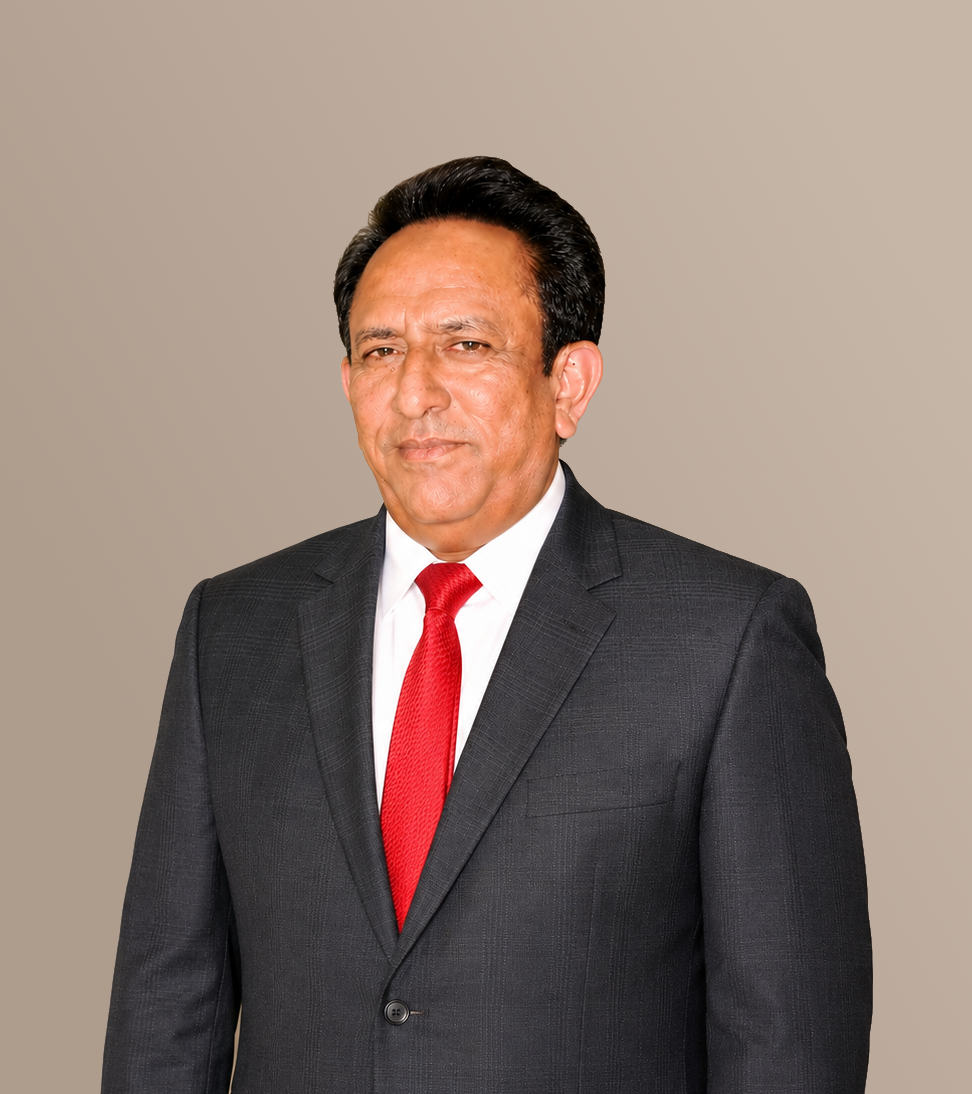
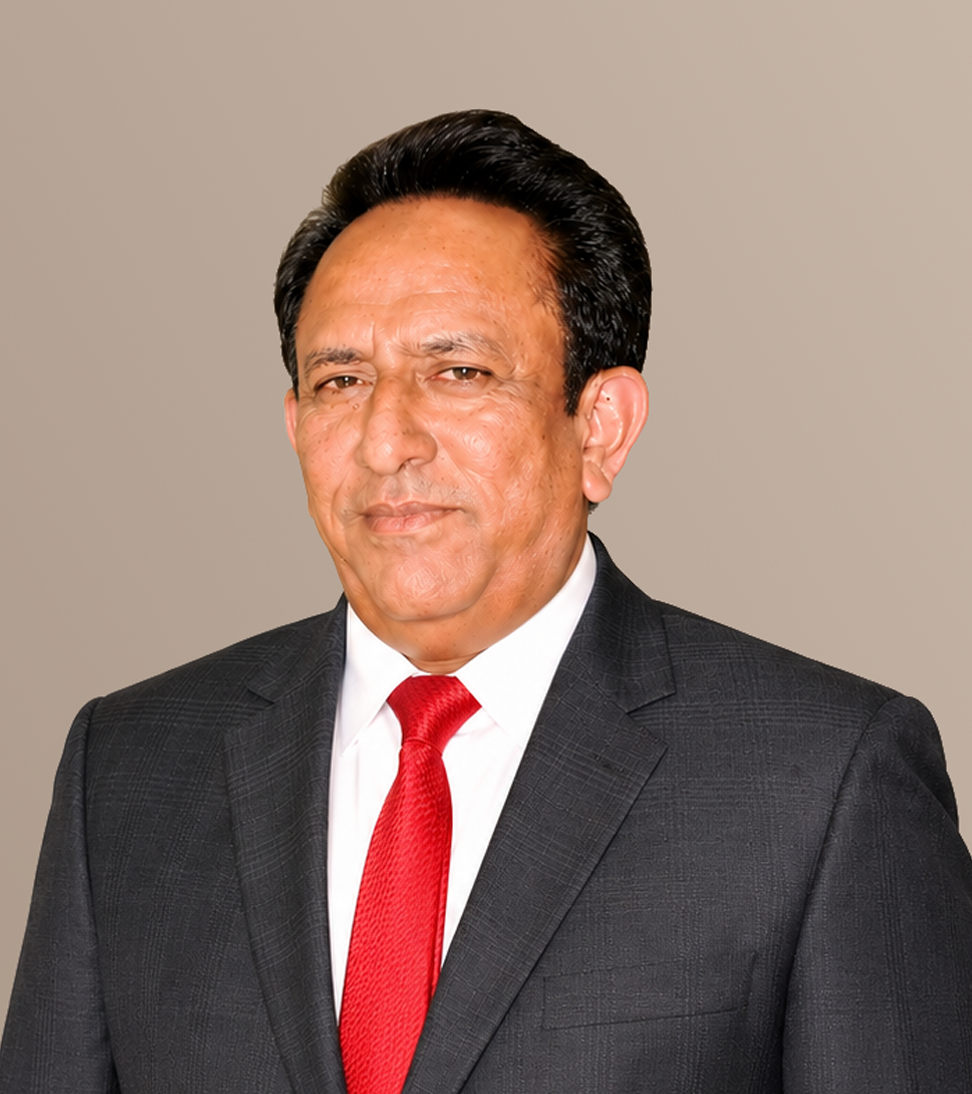
Adjustments made on about us page
Leadership section - added content
Chairman's photo - Cropped to zoom in
Global Presence - Added Europe in the Map
Team members - hid the section for now

diff --git a/about.html b/about.html
@@ -88,7 +88,8 @@
           <img src="Media/About Us/Chairman Photo 2.png" alt="Dato Dr. Arshad Mahmood">
         </div>
         <div class="chairman-bio">
-          <p>Dato Dr. Arshad Mahmood is the Founder and Chairman of the International Investment Consortium Inc. (IIC), where he provides the strategic vision that drives the organization&rsquo;s evolution into a global commodity, trade, and finance platform. Under his leadership, IIC has been repositioned to open markets, bridge supply and demand, and deliver financial solutions that enable legitimate trading across borders. His commitment to building trusted marketplaces and connecting producers with buyers has defined IIC&rsquo;s new direction.</p>
+          <p>Dato Dr. Arshad Mahmood is the Founder and Chairman of the International Investment Consortium Inc. (IIC). Established in Hong Kong in 1997, IIC has an ever expanding presence in Asia, Middle East, Africa and Europe. Its subsidiaries and business platforms form the foundation for growth in many existing and emerging market sectors.</p>
+          <p>Dato Dr. Arshad provides the strategic vision that drives the organization&rsquo;s evolution into a global commodity, trade, and finance platform. Under his leadership, IIC has been repositioned to open markets, bridge supply and demand, and deliver financial solutions that enable legitimate trading across borders. His commitment to building trusted marketplaces and connecting producers with buyers has defined IIC&rsquo;s new direction.</p>
           <p>Dato Dr. Arshad holds a Bachelor&rsquo;s Degree in Economics, a Master&rsquo;s Degree in Literature, and an Honorary Doctorate in Management Sciences from ACMIT USA. His multidisciplinary academic foundation, combined with decades of experience in international trade and finance, reflects his dedication to building transparent, accessible, and efficient commodity markets.</p>
           <p>Guided by a philosophy of creating markets where none exist, Dato Dr. Arshad advocates for connecting those who have commodities and services with those who need them. His vision emphasizes trade finance, verified supply chains, and market infrastructure that empowers producers, buyers, and suppliers to trade with confidence, contributing to economic growth across emerging and established markets alike.</p>
         </div>
@@ -201,6 +202,8 @@
   </section>
 
   <!-- LEADERSHIP TEAM -->
+  <!-- HIDDEN: Leadership Team section (temporarily removed — uncomment to restore) -->
+  <!--
   <section class="section section--primary">
     <div class="container">
       <div class="section-header section-header--center reveal">
@@ -211,67 +214,67 @@
       <div class="grid grid-3">
 
         <div class="card reveal" style="text-align: center; padding: 0; overflow: hidden;">
-          <div style="width: 100%; aspect-ratio: 1; background: var(--bg-card-hover, rgba(0,0,0,0.04)); display: flex; align-items: center; justify-content: center; overflow: hidden;">
-            <img src="Media/Team/member-1.jpg" alt="Dato Dr. Arshad Mahmood" style="width: 100%; height: 100%; object-fit: cover; display: block;" onerror="this.style.display='none';this.parentNode.innerHTML='<span style=\'color:var(--text-muted);font-size:13px;font-family:var(--font-data)\'>Team Photo<br><small>400 x 400 px</small></span>'">
+          <div style="width: 100%; aspect-ratio: 1; background: var(&#45;&#45;bg-card-hover, rgba(0,0,0,0.04)); display: flex; align-items: center; justify-content: center; overflow: hidden;">
+            <img src="Media/Team/member-1.jpg" alt="Dato Dr. Arshad Mahmood" style="width: 100%; height: 100%; object-fit: cover; display: block;" onerror="this.style.display='none';this.parentNode.innerHTML='<span style=\'color:var(&#45;&#45;text-muted);font-size:13px;font-family:var(&#45;&#45;font-data)\'>Team Photo<br><small>400 x 400 px</small></span>'">
           </div>
           <div style="padding: 24px 20px;">
             <h4 class="card__title" style="margin-bottom: 4px;">Dato Dr. Arshad Mahmood</h4>
-            <p style="font-family: var(--font-data); font-size: 13px; font-weight: 600; letter-spacing: 0.06em; text-transform: uppercase; color: var(--gold-text); margin-bottom: 12px;">Chairman &amp; CEO</p>
+            <p style="font-family: var(&#45;&#45;font-data); font-size: 13px; font-weight: 600; letter-spacing: 0.06em; text-transform: uppercase; color: var(&#45;&#45;gold-text); margin-bottom: 12px;">Chairman &amp; CEO</p>
             <p class="card__text">Founding leader responsible for the strategic vision and overall direction of IIC Worldwide, with decades of experience in international trade and finance.</p>
           </div>
         </div>
 
         <div class="card reveal" style="text-align: center; padding: 0; overflow: hidden;">
-          <div style="width: 100%; aspect-ratio: 1; background: var(--bg-card-hover, rgba(0,0,0,0.04)); display: flex; align-items: center; justify-content: center; overflow: hidden;">
-            <img src="Media/Team/member-2.jpg" alt="Team Member" style="width: 100%; height: 100%; object-fit: cover; display: block;" onerror="this.style.display='none';this.parentNode.innerHTML='<span style=\'color:var(--text-muted);font-size:13px;font-family:var(--font-data)\'>Team Photo<br><small>400 x 400 px</small></span>'">
+          <div style="width: 100%; aspect-ratio: 1; background: var(&#45;&#45;bg-card-hover, rgba(0,0,0,0.04)); display: flex; align-items: center; justify-content: center; overflow: hidden;">
+            <img src="Media/Team/member-2.jpg" alt="Team Member" style="width: 100%; height: 100%; object-fit: cover; display: block;" onerror="this.style.display='none';this.parentNode.innerHTML='<span style=\'color:var(&#45;&#45;text-muted);font-size:13px;font-family:var(&#45;&#45;font-data)\'>Team Photo<br><small>400 x 400 px</small></span>'">
           </div>
           <div style="padding: 24px 20px;">
             <h4 class="card__title" style="margin-bottom: 4px;">Team Member</h4>
-            <p style="font-family: var(--font-data); font-size: 13px; font-weight: 600; letter-spacing: 0.06em; text-transform: uppercase; color: var(--gold-text); margin-bottom: 12px;">Chief Operating Officer</p>
+            <p style="font-family: var(&#45;&#45;font-data); font-size: 13px; font-weight: 600; letter-spacing: 0.06em; text-transform: uppercase; color: var(&#45;&#45;gold-text); margin-bottom: 12px;">Chief Operating Officer</p>
             <p class="card__text">Oversees day-to-day platform operations, ensuring seamless trade facilitation and marketplace efficiency across all regions.</p>
           </div>
         </div>
 
         <div class="card reveal" style="text-align: center; padding: 0; overflow: hidden;">
-          <div style="width: 100%; aspect-ratio: 1; background: var(--bg-card-hover, rgba(0,0,0,0.04)); display: flex; align-items: center; justify-content: center; overflow: hidden;">
-            <img src="Media/Team/member-3.jpg" alt="Team Member" style="width: 100%; height: 100%; object-fit: cover; display: block;" onerror="this.style.display='none';this.parentNode.innerHTML='<span style=\'color:var(--text-muted);font-size:13px;font-family:var(--font-data)\'>Team Photo<br><small>400 x 400 px</small></span>'">
+          <div style="width: 100%; aspect-ratio: 1; background: var(&#45;&#45;bg-card-hover, rgba(0,0,0,0.04)); display: flex; align-items: center; justify-content: center; overflow: hidden;">
+            <img src="Media/Team/member-3.jpg" alt="Team Member" style="width: 100%; height: 100%; object-fit: cover; display: block;" onerror="this.style.display='none';this.parentNode.innerHTML='<span style=\'color:var(&#45;&#45;text-muted);font-size:13px;font-family:var(&#45;&#45;font-data)\'>Team Photo<br><small>400 x 400 px</small></span>'">
           </div>
           <div style="padding: 24px 20px;">
             <h4 class="card__title" style="margin-bottom: 4px;">Team Member</h4>
-            <p style="font-family: var(--font-data); font-size: 13px; font-weight: 600; letter-spacing: 0.06em; text-transform: uppercase; color: var(--gold-text); margin-bottom: 12px;">Chief Financial Officer</p>
+            <p style="font-family: var(&#45;&#45;font-data); font-size: 13px; font-weight: 600; letter-spacing: 0.06em; text-transform: uppercase; color: var(&#45;&#45;gold-text); margin-bottom: 12px;">Chief Financial Officer</p>
             <p class="card__text">Leads financial strategy, capital allocation, and risk management, ensuring sound fiscal governance across all trade finance activities.</p>
           </div>
         </div>
 
         <div class="card reveal" style="text-align: center; padding: 0; overflow: hidden;">
-          <div style="width: 100%; aspect-ratio: 1; background: var(--bg-card-hover, rgba(0,0,0,0.04)); display: flex; align-items: center; justify-content: center; overflow: hidden;">
-            <img src="Media/Team/member-4.jpg" alt="Team Member" style="width: 100%; height: 100%; object-fit: cover; display: block;" onerror="this.style.display='none';this.parentNode.innerHTML='<span style=\'color:var(--text-muted);font-size:13px;font-family:var(--font-data)\'>Team Photo<br><small>400 x 400 px</small></span>'">
+          <div style="width: 100%; aspect-ratio: 1; background: var(&#45;&#45;bg-card-hover, rgba(0,0,0,0.04)); display: flex; align-items: center; justify-content: center; overflow: hidden;">
+            <img src="Media/Team/member-4.jpg" alt="Team Member" style="width: 100%; height: 100%; object-fit: cover; display: block;" onerror="this.style.display='none';this.parentNode.innerHTML='<span style=\'color:var(&#45;&#45;text-muted);font-size:13px;font-family:var(&#45;&#45;font-data)\'>Team Photo<br><small>400 x 400 px</small></span>'">
           </div>
           <div style="padding: 24px 20px;">
             <h4 class="card__title" style="margin-bottom: 4px;">Team Member</h4>
-            <p style="font-family: var(--font-data); font-size: 13px; font-weight: 600; letter-spacing: 0.06em; text-transform: uppercase; color: var(--gold-text); margin-bottom: 12px;">Head of Commodity Trading</p>
+            <p style="font-family: var(&#45;&#45;font-data); font-size: 13px; font-weight: 600; letter-spacing: 0.06em; text-transform: uppercase; color: var(&#45;&#45;gold-text); margin-bottom: 12px;">Head of Commodity Trading</p>
             <p class="card__text">Manages commodity sourcing, supplier verification, and trading operations across agricultural, energy, and industrial markets.</p>
           </div>
         </div>
 
         <div class="card reveal" style="text-align: center; padding: 0; overflow: hidden;">
-          <div style="width: 100%; aspect-ratio: 1; background: var(--bg-card-hover, rgba(0,0,0,0.04)); display: flex; align-items: center; justify-content: center; overflow: hidden;">
-            <img src="Media/Team/member-5.jpg" alt="Team Member" style="width: 100%; height: 100%; object-fit: cover; display: block;" onerror="this.style.display='none';this.parentNode.innerHTML='<span style=\'color:var(--text-muted);font-size:13px;font-family:var(--font-data)\'>Team Photo<br><small>400 x 400 px</small></span>'">
+          <div style="width: 100%; aspect-ratio: 1; background: var(&#45;&#45;bg-card-hover, rgba(0,0,0,0.04)); display: flex; align-items: center; justify-content: center; overflow: hidden;">
+            <img src="Media/Team/member-5.jpg" alt="Team Member" style="width: 100%; height: 100%; object-fit: cover; display: block;" onerror="this.style.display='none';this.parentNode.innerHTML='<span style=\'color:var(&#45;&#45;text-muted);font-size:13px;font-family:var(&#45;&#45;font-data)\'>Team Photo<br><small>400 x 400 px</small></span>'">
           </div>
           <div style="padding: 24px 20px;">
             <h4 class="card__title" style="margin-bottom: 4px;">Team Member</h4>
-            <p style="font-family: var(--font-data); font-size: 13px; font-weight: 600; letter-spacing: 0.06em; text-transform: uppercase; color: var(--gold-text); margin-bottom: 12px;">Head of Trade Finance</p>
+            <p style="font-family: var(&#45;&#45;font-data); font-size: 13px; font-weight: 600; letter-spacing: 0.06em; text-transform: uppercase; color: var(&#45;&#45;gold-text); margin-bottom: 12px;">Head of Trade Finance</p>
             <p class="card__text">Designs and delivers trade finance solutions that bridge buyers and sellers, enabling transactions across emerging and established markets.</p>
           </div>
         </div>
 
         <div class="card reveal" style="text-align: center; padding: 0; overflow: hidden;">
-          <div style="width: 100%; aspect-ratio: 1; background: var(--bg-card-hover, rgba(0,0,0,0.04)); display: flex; align-items: center; justify-content: center; overflow: hidden;">
-            <img src="Media/Team/member-6.jpg" alt="Team Member" style="width: 100%; height: 100%; object-fit: cover; display: block;" onerror="this.style.display='none';this.parentNode.innerHTML='<span style=\'color:var(--text-muted);font-size:13px;font-family:var(--font-data)\'>Team Photo<br><small>400 x 400 px</small></span>'">
+          <div style="width: 100%; aspect-ratio: 1; background: var(&#45;&#45;bg-card-hover, rgba(0,0,0,0.04)); display: flex; align-items: center; justify-content: center; overflow: hidden;">
+            <img src="Media/Team/member-6.jpg" alt="Team Member" style="width: 100%; height: 100%; object-fit: cover; display: block;" onerror="this.style.display='none';this.parentNode.innerHTML='<span style=\'color:var(&#45;&#45;text-muted);font-size:13px;font-family:var(&#45;&#45;font-data)\'>Team Photo<br><small>400 x 400 px</small></span>'">
           </div>
           <div style="padding: 24px 20px;">
             <h4 class="card__title" style="margin-bottom: 4px;">Team Member</h4>
-            <p style="font-family: var(--font-data); font-size: 13px; font-weight: 600; letter-spacing: 0.06em; text-transform: uppercase; color: var(--gold-text); margin-bottom: 12px;">Head of Technology</p>
+            <p style="font-family: var(&#45;&#45;font-data); font-size: 13px; font-weight: 600; letter-spacing: 0.06em; text-transform: uppercase; color: var(&#45;&#45;gold-text); margin-bottom: 12px;">Head of Technology</p>
             <p class="card__text">Drives the development of IIC&rsquo;s digital trading platform, marketplace infrastructure, and technology systems that power secure global trade.</p>
           </div>
         </div>
@@ -279,6 +282,7 @@
       </div>
     </div>
   </section>
+  -->
 
   <!-- FOOTER CTA -->
   <section class="cta-band">

diff --git a/js/prices.js b/js/prices.js
@@ -11,8 +11,8 @@
    ============================================================ */
 
 var PRICE_CONFIG = {
-  goldApiKey: 'DEMO', //goldapi-95c93903adab83d4c934c18d674b98d3-io
-  alphaVantageKey: 'DEMO', //3NXQYU6IPOMAQE7C
+  goldApiKey: 'DEMO',
+  alphaVantageKey: 'DEMO',
   metalsCacheTTL: 28800000,
   commoditiesCacheTTL: 86400000,
   currency: 'USD'

diff --git a/css/style.css b/css/style.css
@@ -1066,6 +1066,10 @@ h4, .h4 {
   gap: 60px;
   align-items: stretch;
 }
+.chairman-bio p,
+.chairman-message p {
+  text-align: justify;
+}
 
 /* Stats Row */
 .stats {
